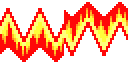
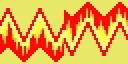
Implemented Stat Down animation

diff --git a/ruby/scripts/battle_ui/stat_sprite.rb b/ruby/scripts/battle_ui/stat_sprite.rb
@@ -10,24 +10,34 @@ class Battle
       self.x = @parent.x
       self.y = @parent.y
       self.z = @parent.z + 1
-      self.bitmap = Bitmap.new(@parent.src_rect.width, @parent.src_rect.height)
-      self.bitmap.fill_rect(0, 0, 20, 20, Color.new(255, 0, 0))
+      @parent.color = Color.new(0, 0, 0, 0)
+      self.opacity = 0
+      @done = false
+      @i = 0
+    end
+
+    def done?
+      return @done
     end
 
     def update
       super
-      self.bitmap.clear
-      for y in 0...@parent.src_rect.height
-        if y == @parent.src_rect.height / 2
-          System.update
+      @i += 1
+      if @i <= framecount(0.2)
+        @parent.color.alpha += 32.0 / framecount(0.1) if @i <= framecount(0.1)
+        self.opacity += 128.0 / framecount(0.2)
+      elsif @i > framecount(0.6) && @i <= framecount(0.8)
+        if self.bitmap
+          self.bitmap.dispose
+          self.bitmap = nil
         end
-        for x in 0...@parent.src_rect.width
-          color = @parent.bitmap.get_pixel(@parent.src_rect.x + x, @parent.src_rect.y + y)
-          next if color.alpha == 0
-          self.bitmap.set_pixel(x, y, @src.get_pixel(@src_x + x % 64, (y - @y_offset) % 64))
-        end
+        @parent.color.alpha -= 32.0 / framecount(0.1) if @i > framecount(0.7)
+        self.opacity -= 128.0 / framecount(0.2)
+        @done = true if @i == framecount(0.8)
       end
-      @y_offset += 1
+      self.bitmap.dispose if self.bitmap
+      self.bitmap = Bitmap.mask(@parent.bitmap, @src, Rect.new(@src_x, 0, 64, 64), 0, @y_offset % 64)
+      @y_offset += @direction == :up ? 6 : -6
     end
   end
 end

diff --git a/ruby/scripts/battle_ui/base_move_animation.rb b/ruby/scripts/battle_ui/base_move_animation.rb
@@ -14,12 +14,12 @@ class Battle
     end
 
     def inflict_damage
-      frames = framecount(0.5)
+      frames = framecount(0.4)
       up = true
       @target_databox.y -= 1
       for i in 1..frames
         @battle.ui.update
-        if i % 4 == 0
+        if i % framecount(0.05) == 0
           @target_sprite.visible = !@target_sprite.visible
           if up
             @target_databox.y += 2

diff --git a/ruby/scripts/battle_ui/ui.rb b/ruby/scripts/battle_ui/ui.rb
@@ -564,12 +564,9 @@ class Battle
     end
 
     def stat_anim(battler, stat_type, direction)
-      return
       sprite = get_battler_sprite(battler)
       stat = StatSprite.new(@viewport, sprite, stat_type, direction)
-      frames = framecount(2.0)
-      System.update
-      for i in 1..frames
+      until stat.done?
         System.update
         stat.update
       end

diff --git a/ruby/scripts/main.rb b/ruby/scripts/main.rb
@@ -54,8 +54,7 @@ def main_function
   $game.update
   $visuals.update
   if Input.trigger?(Input::CTRL)
-    #Battle.new($trainer, Pokemon.new(:BULBASAUR, 5))
-    System.vsync = !System.vsync
+    Battle.new($trainer, Pokemon.new(:BULBASAUR, 5))
     #return false
   end
   return true

diff --git a/ruby/scripts/battle/base_move.rb b/ruby/scripts/battle/base_move.rb
@@ -194,7 +194,7 @@ class Battle
     end
 
     def after_use_effect(user, target, damage, critical_hit)
-      #target.lower_stat(:attack, 3, true, false)
+      target.lower_stat(:attack, 3, true, false)
     end
 
     def deal_damage(user, target, damage, critical_hit)
